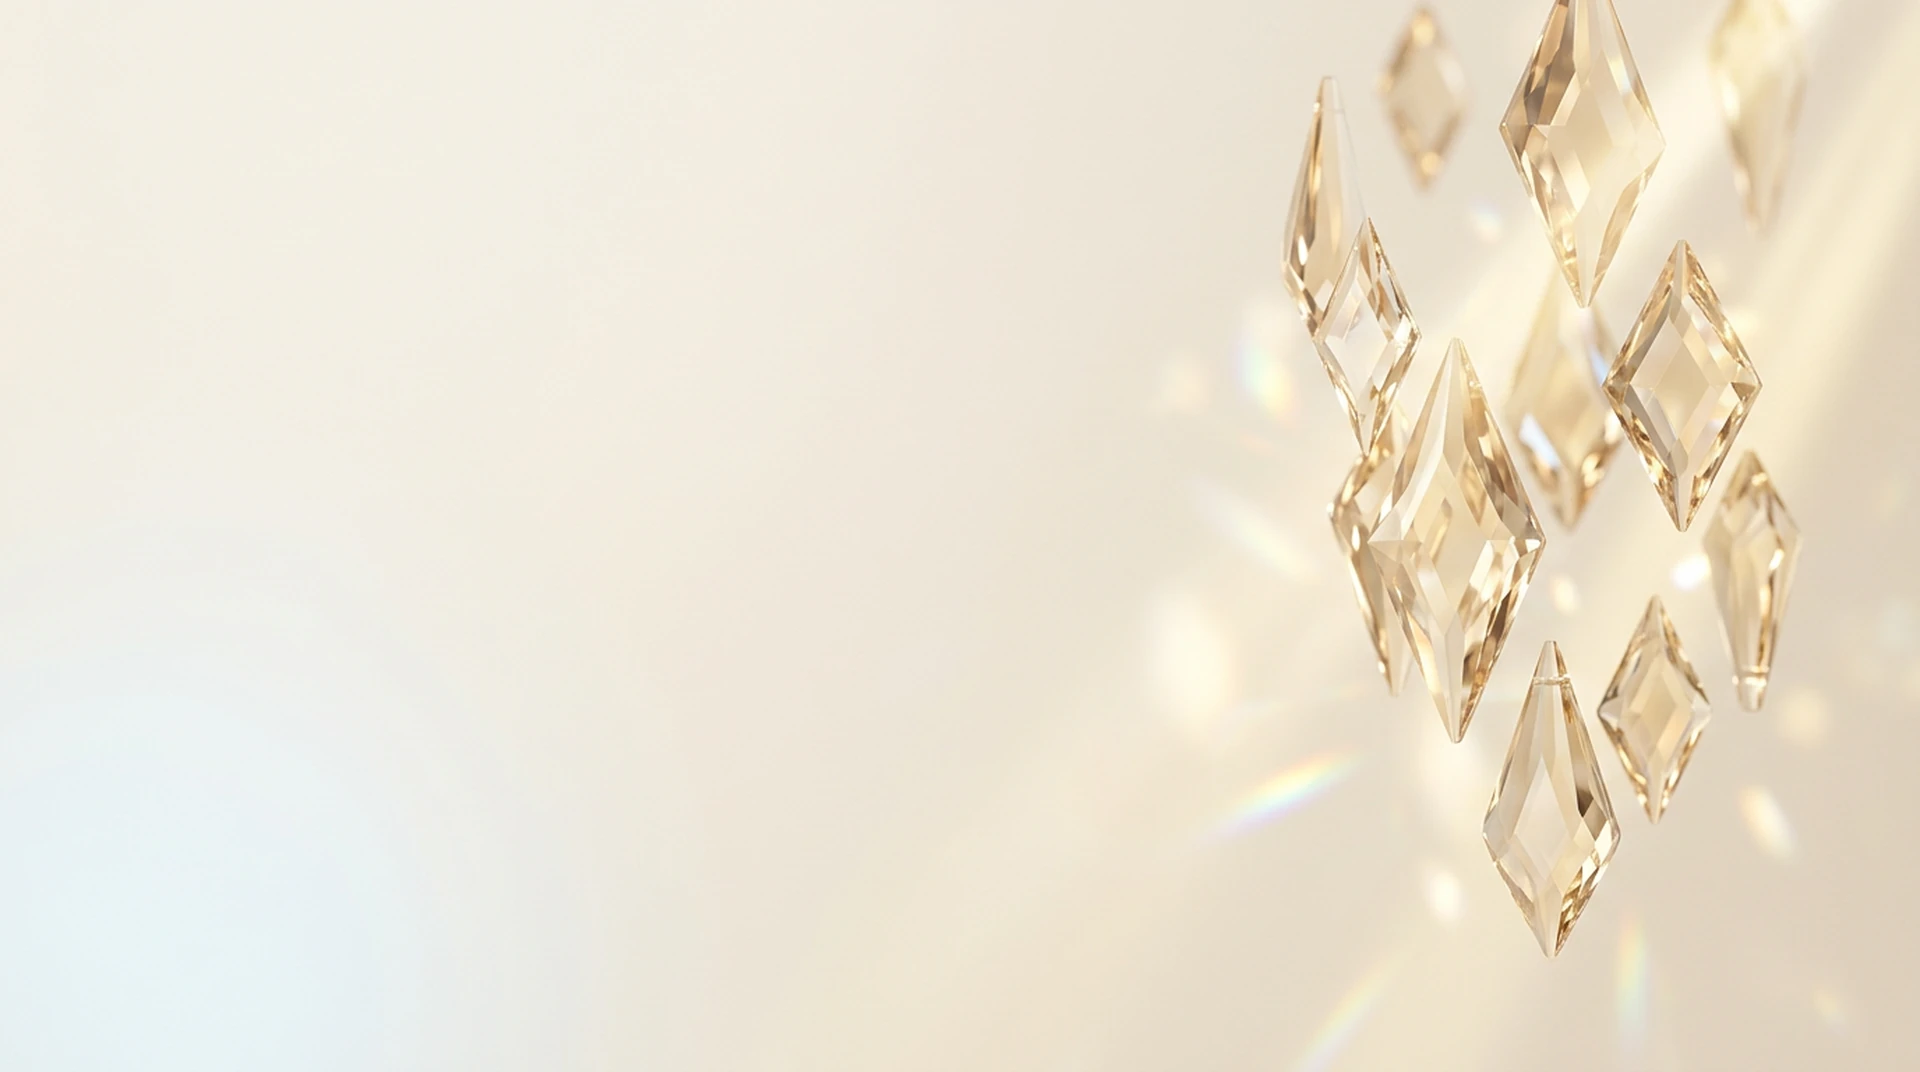
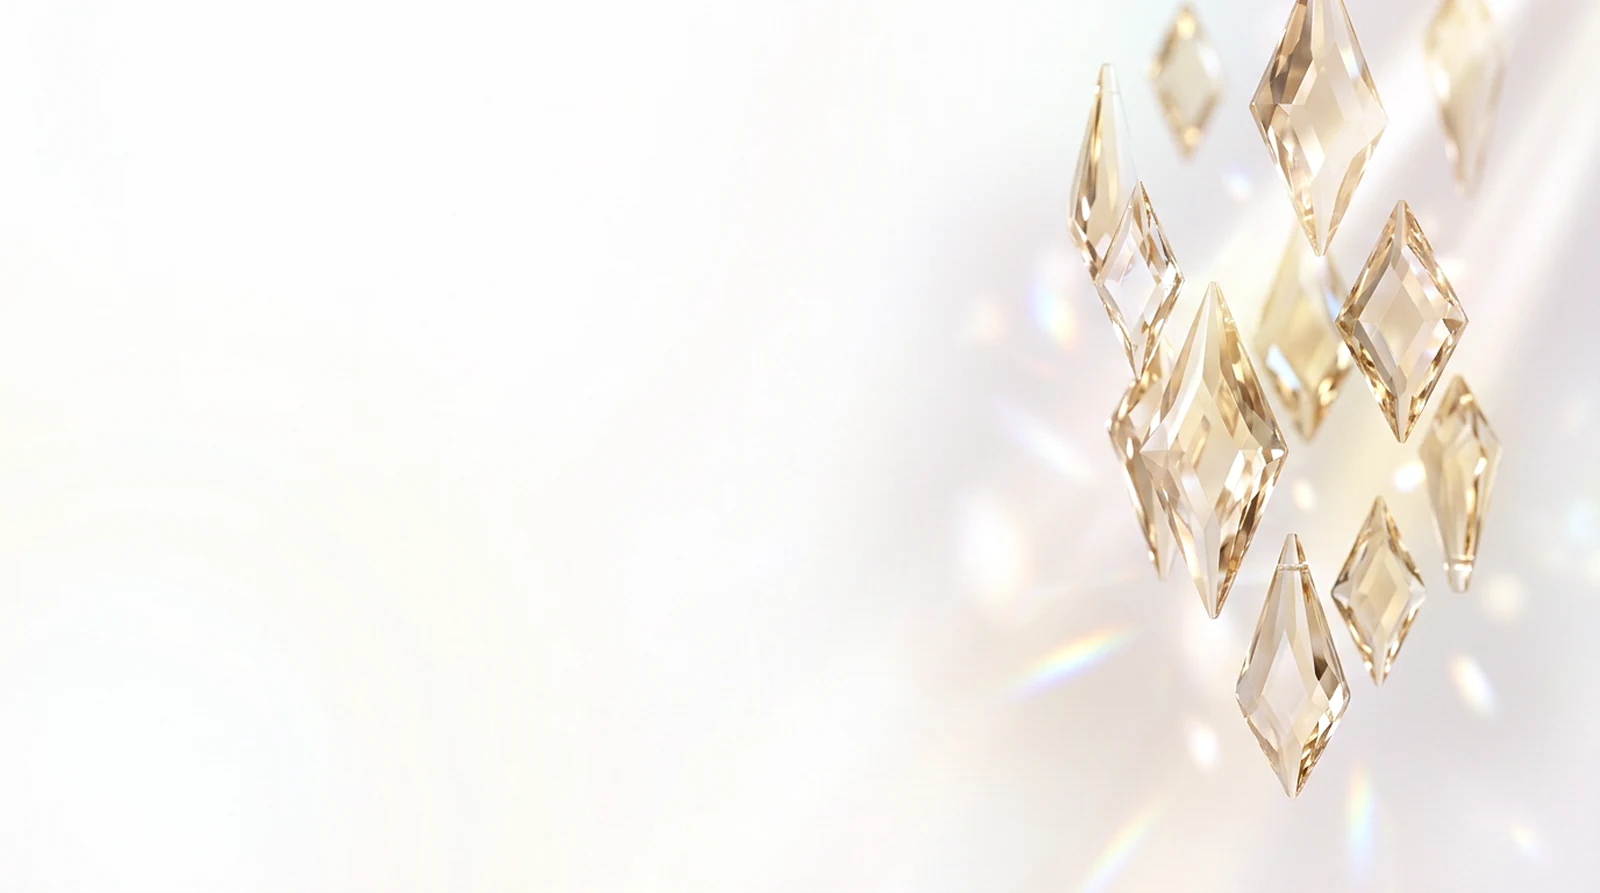
fix(ui): round 3 K1 acceptance

diff --git a/frontend/src/styles/k1-scene.css b/frontend/src/styles/k1-scene.css
@@ -4,7 +4,7 @@
  * Что здесь:
  *   1. Токены сцены (--fe-scene-*, --fe-glint-color, --fe-light-color), светлая и тёмная тема.
  *   2. Слой-небо `.fe-scene` (fixed): бумага, три каустики, текстура граней, силуэты граней в боковых полях.
- *   3. Герой `.fe-scene-hero` (главная и страна) и утечка света `.fe-scene-leak` (≥1024 px).
+ *   3. Герой `.fe-scene-hero` (главная и страна, поверх страницы, multiply) и утечка света `.fe-scene-leak` (≥1024 px).
  *   4. Общие приёмы света для всех зон: `.fe-glint`, `.fe-cursor-light`, `.fe-drift`.
  *   5. Бюджет: `.fe-cv-auto`, `.fe-cv-row`, `.fe-blur-cap`; выключатели движения и прозрачности.
  *   6. Переход между страницами «преломление» (View Transitions).
@@ -86,38 +86,41 @@ html.fe-scene-on #root {
   html[data-fe-motion="on"] .fe-scene__par { will-change: transform; }
 }
 
-/* Каустики: три цветных пятна без blur-фильтра (плавный радиальный градиент), дрейф 40 с. */
+/* Каустики: три цветных пятна без blur-фильтра, дрейф 40 с. Градиент гаснет в ноль на 80-85 % радиуса, а сам
+   элемент заметно больше пятна и дополнительно закрыт радиальной маской: у пятна нет края, совпадающего с краем
+   элемента (приёмка F1.2: раньше ледяное пятно читалось бледно-голубым прямоугольником). */
 .fe-scene__lamp {
   position: absolute;
-  border-radius: 50%;
   animation: fe-k1-sky 40s ease-in-out infinite alternate;
+  -webkit-mask-image: radial-gradient(closest-side, #000 0, #000 45%, transparent 98%);
+  mask-image: radial-gradient(closest-side, #000 0, #000 45%, transparent 98%);
 }
 .fe-scene__lamp--gold {
-  right: -16vw;
-  top: -26vh;
-  width: 80vw;
-  height: 78vh;
-  background: radial-gradient(closest-side, var(--fe-scene-gold), transparent);
+  right: -26vw;
+  top: -38vh;
+  width: 104vw;
+  height: 104vh;
+  background: radial-gradient(closest-side, var(--fe-scene-gold) 0%, color-mix(in srgb, var(--fe-scene-gold) 45%, transparent) 42%, transparent 82%);
   --fe-sky-dx: -4vw;
   --fe-sky-dy: 3vh;
 }
 .fe-scene__lamp--ice {
-  left: -22vw;
-  top: 16vh;
-  width: 66vw;
-  height: 66vh;
-  background: radial-gradient(closest-side, var(--fe-scene-ice), transparent);
+  left: -34vw;
+  top: 2vh;
+  width: 92vw;
+  height: 96vh;
+  background: radial-gradient(closest-side, var(--fe-scene-ice) 0%, color-mix(in srgb, var(--fe-scene-ice) 45%, transparent) 42%, transparent 82%);
   animation-duration: 46s;
   animation-delay: -12s;
   --fe-sky-dx: 5vw;
   --fe-sky-dy: -3vh;
 }
 .fe-scene__lamp--rose {
-  left: 26vw;
-  bottom: -34vh;
-  width: 72vw;
-  height: 62vh;
-  background: radial-gradient(closest-side, var(--fe-scene-rose), transparent);
+  left: 16vw;
+  bottom: -50vh;
+  width: 96vw;
+  height: 90vh;
+  background: radial-gradient(closest-side, var(--fe-scene-rose) 0%, color-mix(in srgb, var(--fe-scene-rose) 45%, transparent) 42%, transparent 82%);
   animation-duration: 52s;
   animation-delay: -24s;
   --fe-sky-dx: -5vw;
@@ -175,21 +178,40 @@ html.fe-scene-on #root {
 }
 
 /* ===== 3. Герой и утечка света ===== */
+/*
+ * Кадр граней героя (приёмка F1.1). Раньше он лежал под страницей (z-index -1), и главную закрывали карточка планеты
+ * и арт `[data-block="home-hero"]::before`, а страну плита hero: ни одного кристалла на экране.
+ * Теперь слой стоит НАД страницей (z-index 1: выше main, ниже шапки, ленты, подвала-диалогов) и смешивается режимом
+ * multiply. Кадр заранее выровнен: его кремовый фон стал белым (белое при multiply ничего не меняет), грани остались
+ * золотыми. Поэтому кристаллы просвечивают и сквозь стекло панелей, и в полях, но не светлят и не закрывают текст
+ * (multiply только темнит, текст остаётся тёмным), а края кадра не видны вовсе. Курсор и клики проходят насквозь.
+ * Положение задают переменные: --fe-hero-frame-w, --fe-hero-frame-right, --fe-hero-frame-top (по странице и ширине).
+ * Кристаллы лежат в кадре на x 67-94 %, y 0-89 %; маска слева и снизу оставляет их у края, а не по всему экрану.
+ */
 .fe-scene-hero {
+  --fe-hero-frame-w: min(52vw, 1100px);
+  --fe-hero-frame-right: -7vw;
+  --fe-hero-frame-top: 0px;
   position: absolute;
-  top: 0;
-  right: -3vw;
-  width: min(104vw, 1700px);
-  aspect-ratio: 1920 / 1072;
-  z-index: -1;
+  top: var(--fe-hero-frame-top);
+  right: var(--fe-hero-frame-right);
+  width: var(--fe-hero-frame-w);
+  aspect-ratio: 1600 / 893;
+  z-index: 1;
   pointer-events: none;
+  mix-blend-mode: multiply;
   opacity: 0;
   transition: opacity 0.6s ease;
-  /* Левые ~55 % кадра пустые под заголовок: слева маска, снизу растворение. */
-  -webkit-mask-image: linear-gradient(90deg, transparent 30%, #000 62%), linear-gradient(180deg, #000 60%, transparent 100%);
+  -webkit-mask-image: linear-gradient(90deg, transparent 36%, #000 66%), linear-gradient(180deg, #000 56%, transparent 96%);
   -webkit-mask-composite: source-in;
-  mask-image: linear-gradient(90deg, transparent 30%, #000 62%), linear-gradient(180deg, #000 60%, transparent 100%);
+  mask-image: linear-gradient(90deg, transparent 36%, #000 66%), linear-gradient(180deg, #000 56%, transparent 96%);
   mask-composite: intersect;
+}
+/* Страна: кластер в пустой середине hero, между заголовком и карточкой профиля (на 1440 центр около x 815). */
+.fe-scene-hero[data-fe-hero="country"] {
+  --fe-hero-frame-w: min(44vw, 940px);
+  --fe-hero-frame-right: 34.8vw;
+  --fe-hero-frame-top: 8vw;
 }
 .fe-scene-hero.is-ready {
   opacity: var(--fe-scene-hero-opacity);
@@ -205,13 +227,15 @@ html.fe-scene-on #root {
   object-fit: cover;
 }
 @media (max-width: 767px) {
-  .fe-scene-hero {
-    right: 0;
-    width: min(100vw, 560px);
+  .fe-scene-hero,
+  .fe-scene-hero[data-fe-hero="country"] {
+    --fe-hero-frame-w: 78vw;
+    --fe-hero-frame-right: -4vw;
+    --fe-hero-frame-top: 40px;
     aspect-ratio: 780 / 1044;
-    /* Слева на кадре холодное облако: оно уходит маской, остаются грани справа. */
-    -webkit-mask-image: linear-gradient(90deg, transparent 22%, #000 50%), linear-gradient(180deg, #000 50%, transparent 98%);
-    mask-image: linear-gradient(90deg, transparent 22%, #000 50%), linear-gradient(180deg, #000 50%, transparent 98%);
+    /* Слева на кадре холодное облако: оно уходит маской, остаются грани справа от заголовка. */
+    -webkit-mask-image: linear-gradient(90deg, transparent 26%, #000 52%), linear-gradient(180deg, #000 52%, transparent 92%);
+    mask-image: linear-gradient(90deg, transparent 26%, #000 52%), linear-gradient(180deg, #000 52%, transparent 92%);
   }
 }
 

diff --git a/frontend/src/components/LightScene.jsx b/frontend/src/components/LightScene.jsx
@@ -6,13 +6,14 @@ import { useLightPointer } from '../lib/useLightPointer';
 import '../styles/k1-scene.css';
 
 /**
- * Сцена света (раунд 3, K1): всё, что лежит ПОД страницей и даёт стеклу что преломлять.
+ * Сцена света (раунд 3, K1): всё, что даёт стеклу что преломлять: слои под страницей и кадр граней героя поверх неё.
  * Декор: ни текста, ни фокуса, ни событий (aria-hidden, pointer-events: none).
  *
  *  1. `.fe-scene` (fixed): бумага, три каустики (золото, лёд, роза) с дрейфом 40 с, текстура граней (≥768 px),
  *     6 силуэтов граней в боковых полях (≥1600 px) с параллаксом 0,15 / 0,3. На телефоне только каустики.
- *  2. `.fe-scene-hero` (абсолютно в верху страницы): кадр граней справа сверху, только на главной и в карточке
- *     страны; монтируется после загрузки страницы, чтобы не мешать LCP. Размеры заданы, сдвига вёрстки нет.
+ *  2. `.fe-scene-hero` (абсолютно в верху страницы, поверх страницы, multiply): кадр граней справа сверху, только на
+ *     главной и в карточке страны; монтируется после загрузки страницы, чтобы не мешать LCP. Размеры заданы
+ *     (aspect-ratio в CSS, width/height на img и source), сдвига вёрстки нет.
  *  3. `.fe-scene-leak` (абсолютно, только ≥1024 px): «утечка света» за героем и за подвалом, режим screen.
  *
  * Бюджет, выключатели и режимы: `lib/sceneBudget.js`. Классы `.fe-glint`, `.fe-cursor-light`, `.fe-drift`
@@ -134,7 +135,7 @@ function HeroLayer({ kind }) {
     <div className={`fe-scene-hero${loaded ? ' is-ready' : ''}`} data-fe-hero={kind} aria-hidden="true">
       <div className="fe-scene-hero__float fe-drift" style={{ '--fe-drift-dur': '12s', '--fe-drift-y': '6px', '--fe-drift-r': '0deg' }}>
         <picture>
-          <source media="(min-width: 768px)" srcSet="/brand/hero-desktop.webp" width="1920" height="1072" />
+          <source media="(min-width: 768px)" srcSet="/brand/hero-desktop.webp" width="1600" height="893" />
           <img
             ref={imgRef}
             src="/brand/hero-phone.webp"

diff --git a/frontend/src/styles/k1-scene.test.js b/frontend/src/styles/k1-scene.test.js
@@ -44,4 +44,27 @@ describe('k1-scene.css', () => {
       expect(() => readFileSync(file)).not.toThrow();
     }
   });
+
+  it('герой лежит поверх страницы и смешивается multiply (приёмка F1.1: под страницей его закрывали панели)', () => {
+    const base = stripped.match(/\.fe-scene-hero \{[^}]*\}/)[0];
+    expect(base).toMatch(/z-index:\s*1;/);
+    expect(base).toMatch(/mix-blend-mode:\s*multiply/);
+    expect(base).toMatch(/pointer-events:\s*none/);
+    expect(base).toMatch(/aspect-ratio:\s*1600 \/ 893/);
+    for (const v of ['--fe-hero-frame-w', '--fe-hero-frame-right', '--fe-hero-frame-top']) {
+      expect(base).toContain(v);
+    }
+    expect(stripped).toMatch(/\.fe-scene-hero\[data-fe-hero="country"\]/);
+  });
+
+  it('у каустик нет края: градиент гаснет до 85 %, элемент закрыт радиальной маской и больше пятна (F1.2)', () => {
+    for (const name of ['gold', 'ice', 'rose']) {
+      const rule = stripped.match(new RegExp(`\\.fe-scene__lamp--${name} \\{[^}]*\\}`))[0];
+      expect(rule).toMatch(/transparent 82%/);
+      expect(rule).not.toMatch(/closest-side, var\(--fe-scene-\w+\), transparent\)/);
+    }
+    const lamp = stripped.match(/\.fe-scene__lamp \{[^}]*\}/)[0];
+    expect(lamp).toMatch(/mask-image:\s*radial-gradient\(closest-side/);
+    expect(lamp).not.toMatch(/border-radius/);
+  });
 });

diff --git a/frontend/src/components/LightScene.component.test.jsx b/frontend/src/components/LightScene.component.test.jsx
@@ -67,7 +67,7 @@ describe('LightScene', () => {
     expect(img.getAttribute('height')).toBe('1044');
     expect(img.getAttribute('loading')).toBe('lazy');
     expect(img.getAttribute('alt')).toBe('');
-    expect(hero.querySelector('source').getAttribute('width')).toBe('1920');
+    expect(hero.querySelector('source').getAttribute('width')).toBe('1600');
     home.unmount();
 
     const country = scene('/germany');
